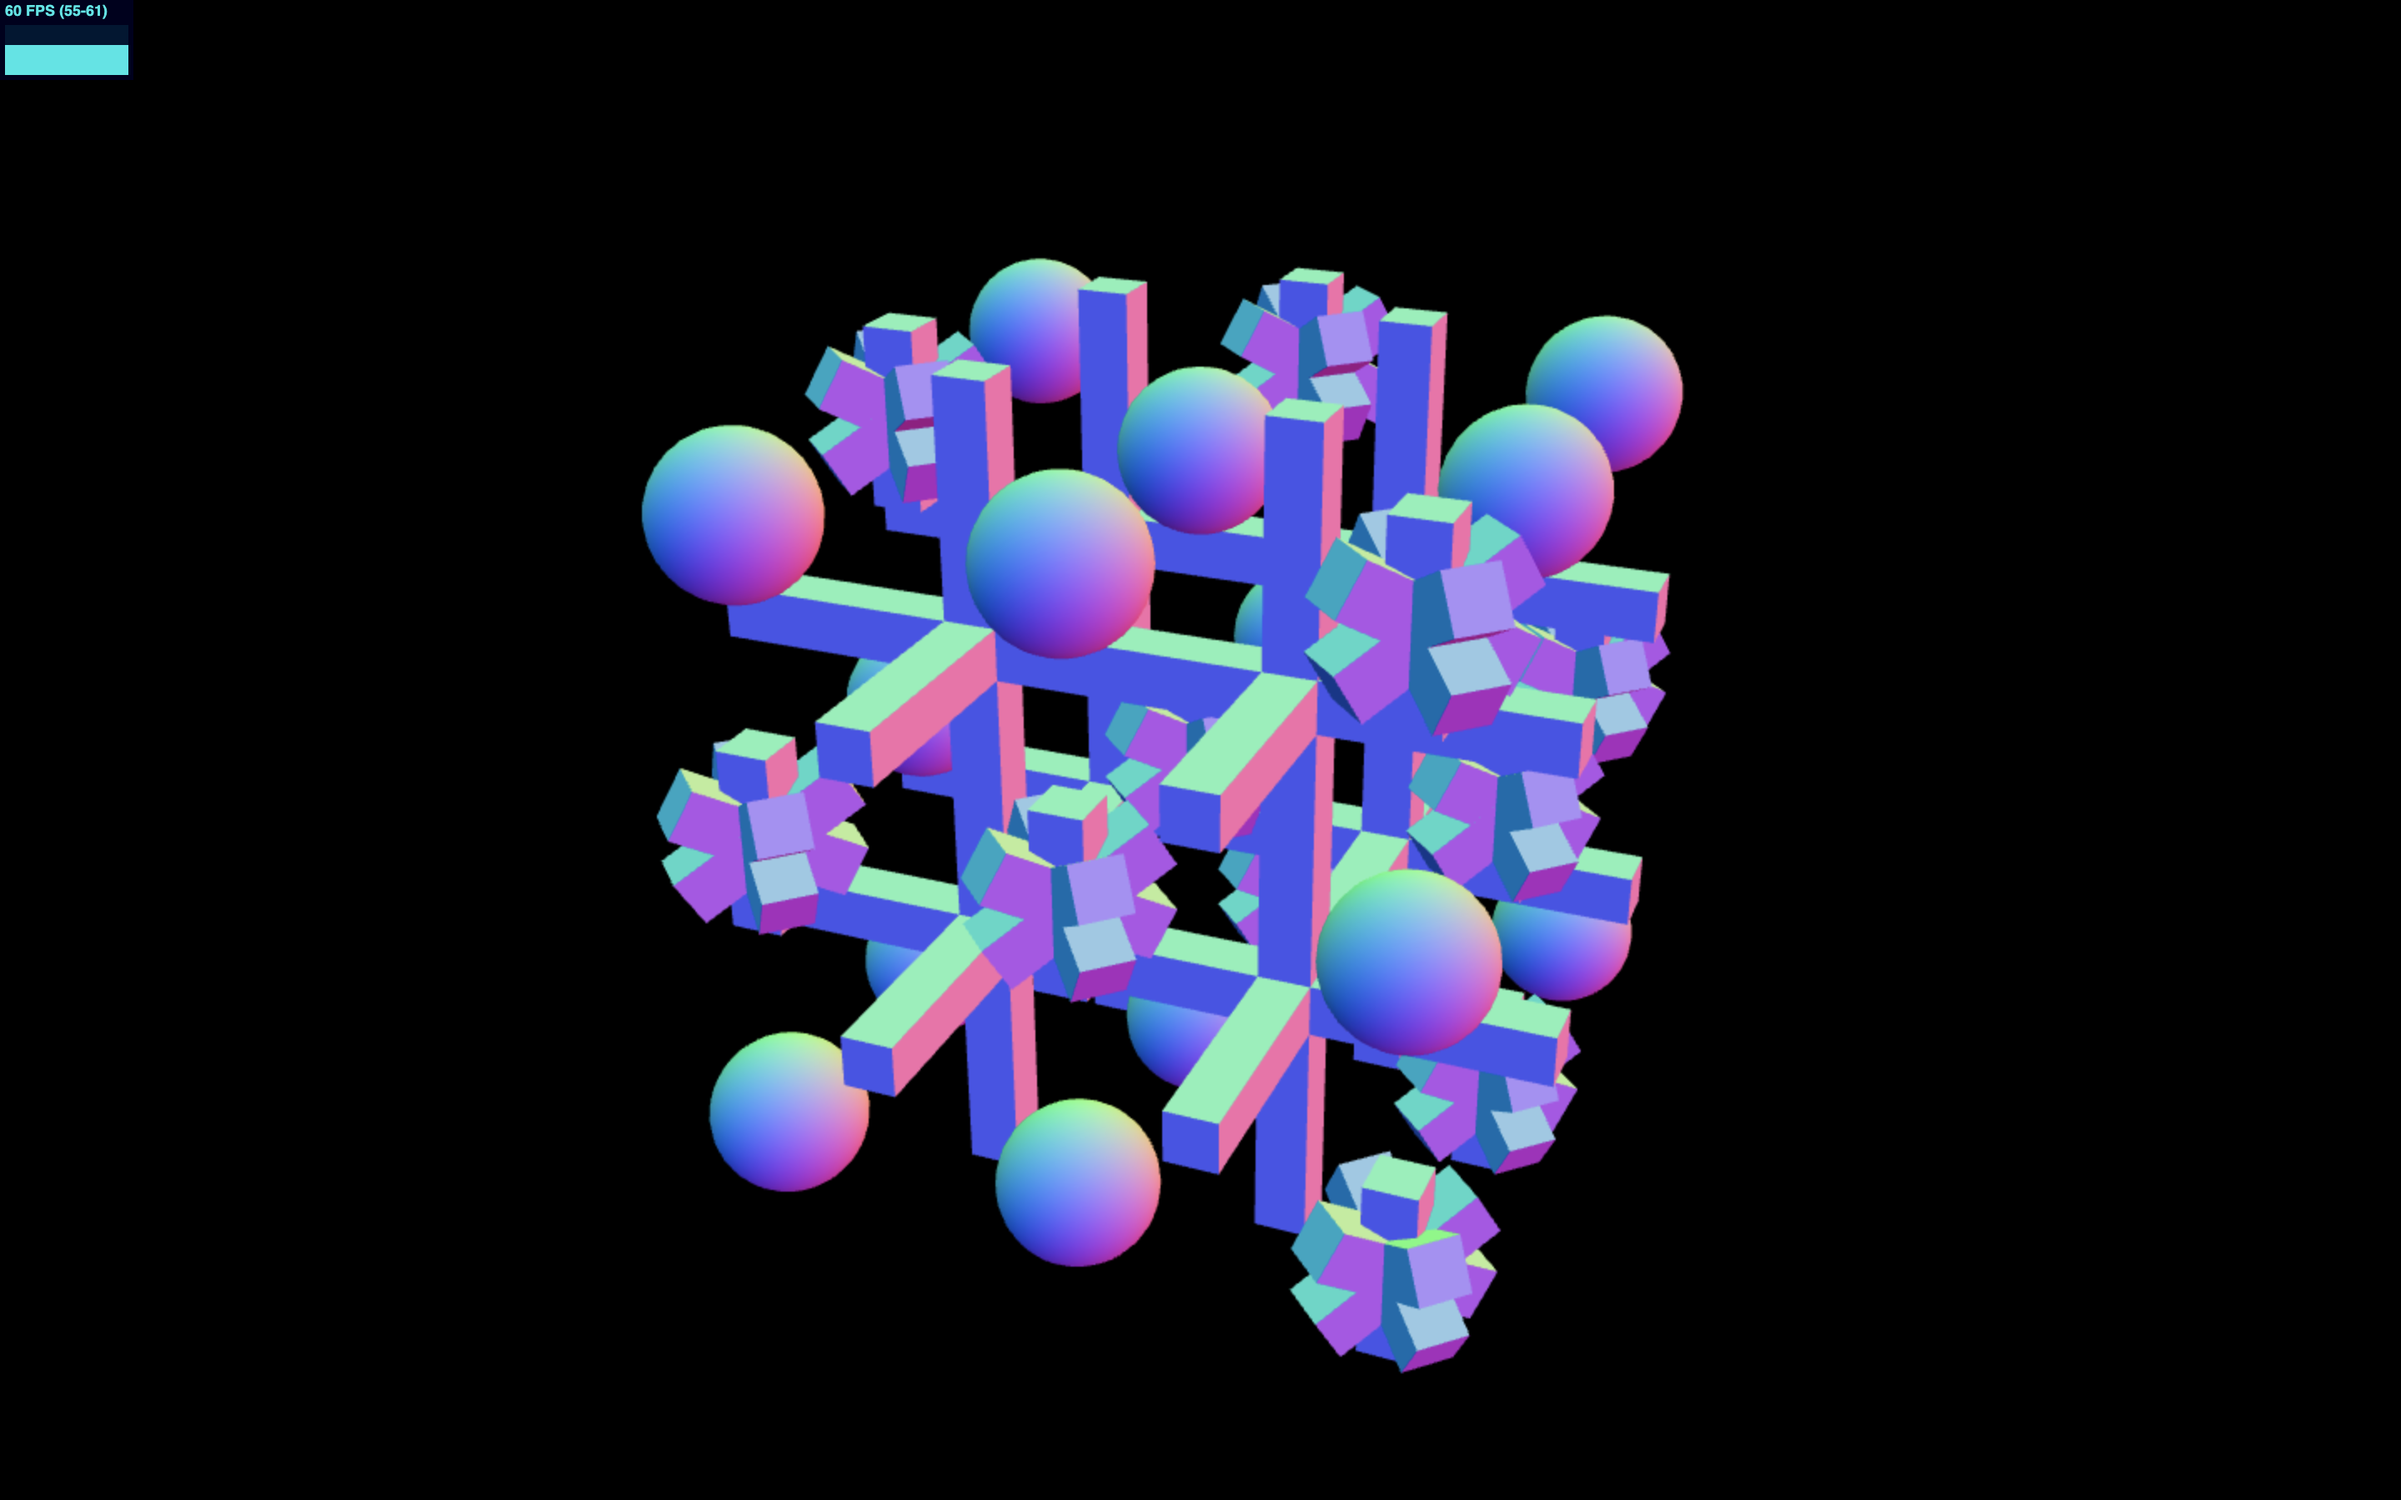
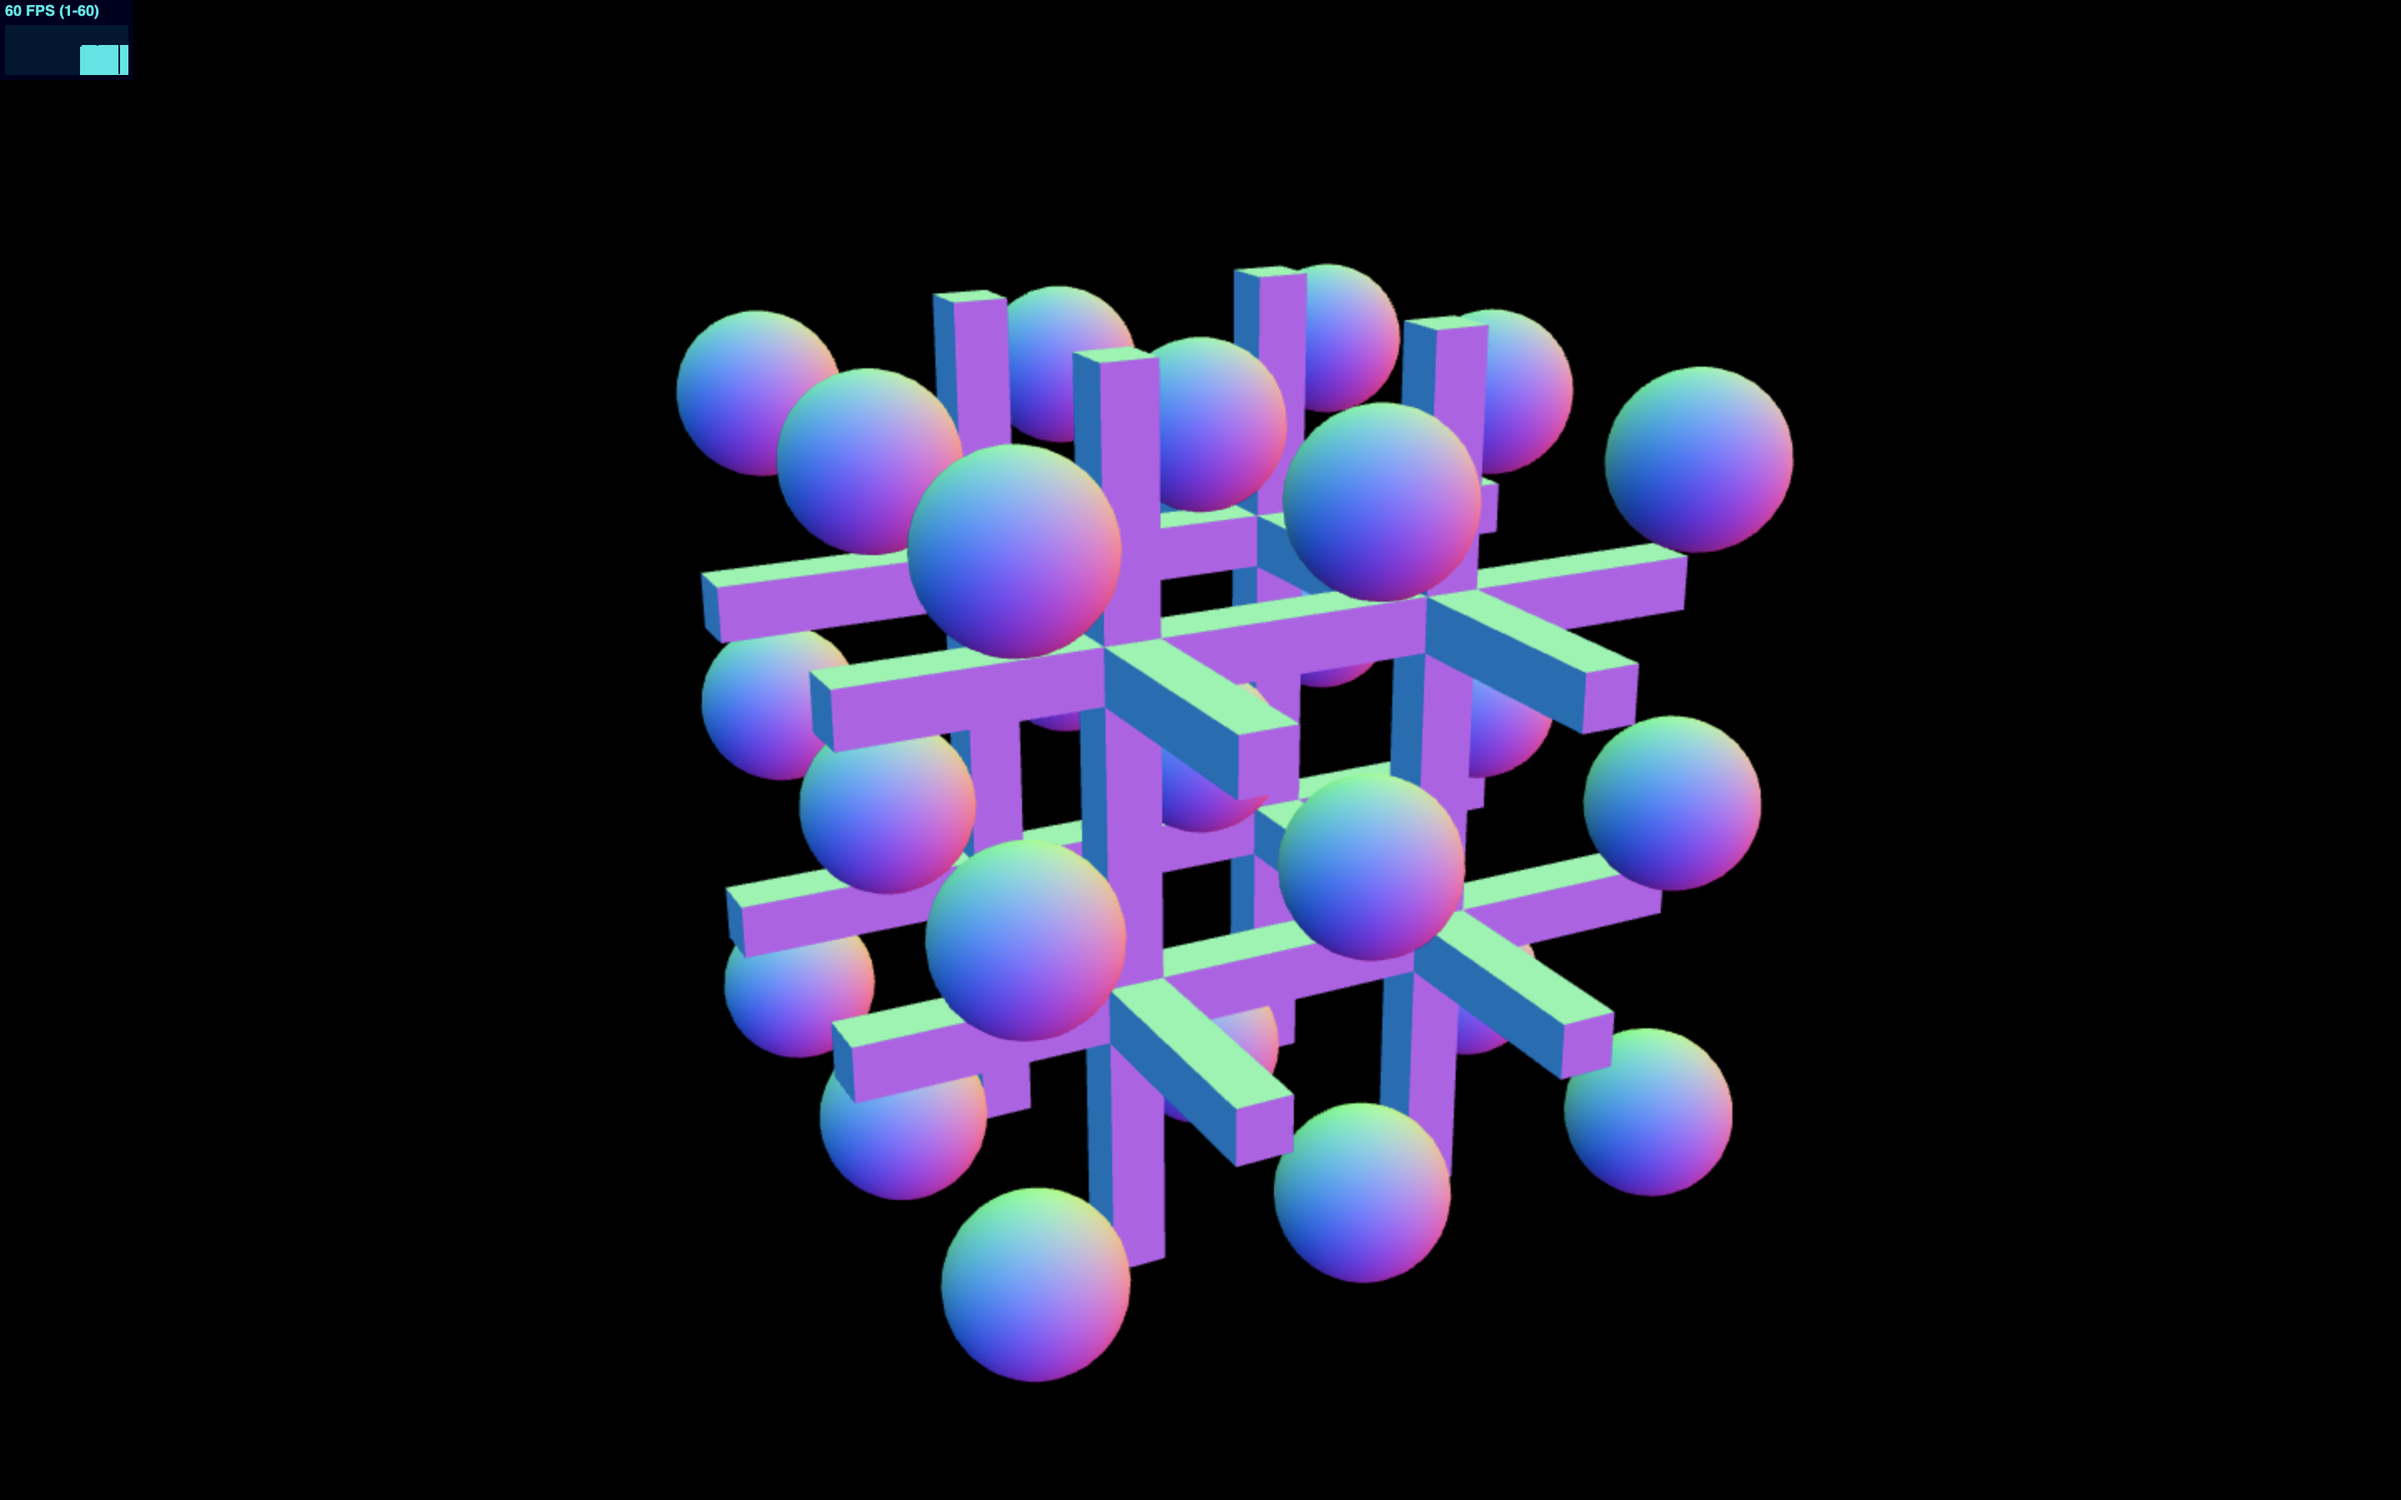
Update the third demo picture.

Changed region(s): [[0.25, 0.1556, 0.75, 0.9333], [0.0, 0.0311, 0.0312, 0.0622]]

diff --git a/tic-tac-toe-cube/pages/index.js b/tic-tac-toe-cube/pages/index.js
@@ -74,7 +74,7 @@ export default function Home() {
     const animate = () => {
       game.spheres.children.forEach((sphere) => scaleUp(sphere));
       game.asterisks.children.forEach((asterisk) => scaleUp(asterisk));
-      game.winStrikes.children.forEach((strike) => scaleUp(strike));
+      // game.winStrikes.children.forEach((strike) => scaleUp(strike));
       requestAnimationFrame(animate);
     };
 

diff --git a/tic-tac-toe-cube/pages/lib/TicTacToeCube.js b/tic-tac-toe-cube/pages/lib/TicTacToeCube.js
@@ -490,7 +490,7 @@ export default class TicTacToeCube {
       this._updateBoardCopy(offset, "o");
       const sphere = this._sphere(offset);
       this.spheres.add(sphere);
-      this.currentPlayer = "asterisk";
+      // this.currentPlayer = "asterisk";
     } else if (this.currentPlayer === "asterisk") {
       this._updateBoardCopy(offset, "x");
       const asterisk = this._asterisk(offset);
